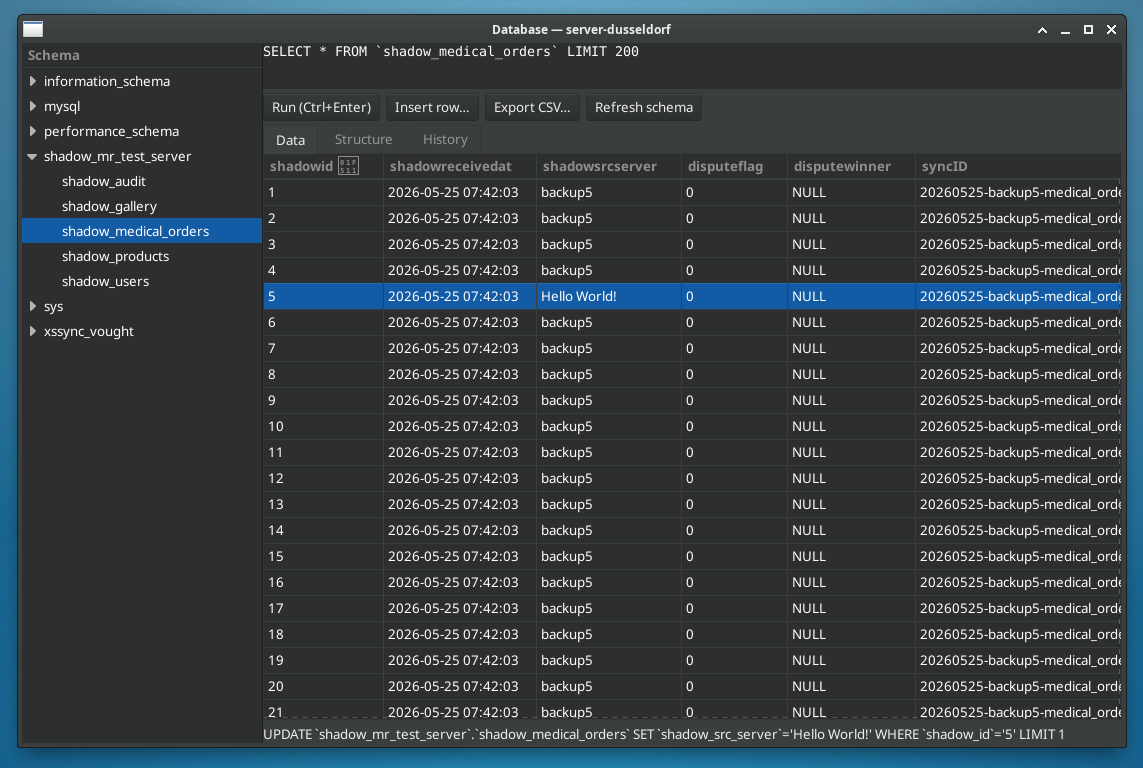
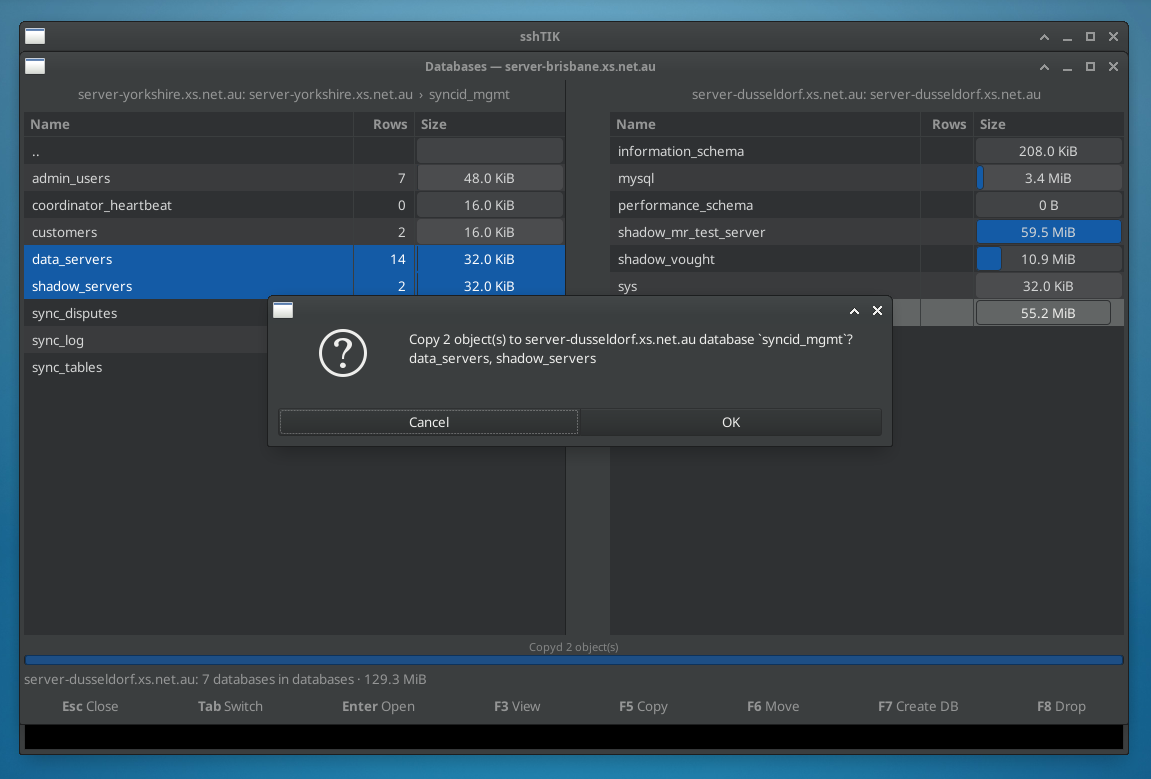
site: revamp with the v0.2.4 screenshots and updated descriptions
Feature the new dual-pane file/database commander screenshots full-width
(plus the new table-rows view), and rewrite the copy: F6 is no longer a
single "database browser with an editable grid" but a two-pane commander
that copies tables and whole databases between servers. Refresh the F5 blurb
(icons, folders-first sorting) and the "how it works" note about pointing a
pane at any host in ~/.ssh/config.

diff --git a/site/index.html b/site/index.html
@@ -4,7 +4,7 @@
 <meta charset="utf-8">
 <meta name="viewport" content="width=device-width, initial-scale=1">
 <title>sshTIK — SSH terminal with pop-up SFTP and MySQL helpers</title>
-<meta name="description" content="sshTIK is a Linux SSH terminal that stays out of your way until you press F5 for a file transfer window or F6 for a database browser — both riding on the session you already have open.">
+<meta name="description" content="sshTIK is a Linux SSH terminal that stays out of your way until you press F5 for a dual-pane file manager or F6 for a two-pane database commander that copies tables and whole databases between servers — both riding on the session you already have open.">
[1 lines of base64/hex data omitted]
 <style>
   :root {
@@ -34,10 +34,12 @@
   code { font-family: ui-monospace, Menlo, Consolas, monospace; background: var(--code); padding: 1px 5px; border-radius: 5px; font-size: .92em; }
   ul { padding-left: 22px; } li { margin: 4px 0; }
   a { color: var(--accent); }
-  .shots { display: grid; grid-template-columns: repeat(auto-fit, minmax(300px, 1fr)); gap: 18px; margin: 16px 0 28px; }
-  .shots figure { margin: 0; }
-  .shots img { width: 100%; height: auto; border-radius: 10px; border: 1px solid var(--line); box-shadow: 0 6px 18px rgba(0,0,0,.18); }
-  .shots figcaption { font-size: .9rem; color: var(--muted); margin-top: 6px; }
+  .feature { margin: 12px 0 28px; }
+  .feature figure { margin: 0 0 34px; }
+  .feature img { display: block; width: 100%; height: auto; border-radius: 12px; border: 1px solid var(--line); box-shadow: 0 12px 34px rgba(0,0,0,.22); }
+  .feature figcaption { margin-top: 12px; font-size: 1rem; line-height: 1.5; }
+  .feature figcaption b { color: var(--fg); }
+  .feature figcaption span { color: var(--muted); }
   .btns { display: flex; gap: 12px; flex-wrap: wrap; margin: 20px 0 0; }
   .btn { display: inline-block; padding: 10px 18px; border-radius: 10px; text-decoration: none; font-weight: 600; border: 1px solid var(--line); background: var(--card); color: var(--fg); }
   .btn.primary { background: var(--accent); border-color: var(--accent); color: #fff; }
@@ -61,12 +63,12 @@
     <div class="key">
       <kbd>F5</kbd>
       <h3>Files</h3>
-      <p>A dual-pane SFTP window opens with the remote side already sitting in the directory your shell is in, and your local machine on the other side. Drag, drop, recurse, rename, chmod. Double-click a remote file to edit it in your local editor — every save uploads.</p>
+      <p>A dual-pane file manager opens over SFTP — the remote side already in your shell's directory, your local machine opposite. Type-aware icons, folders grouped first, three-state column sorting, drag-and-drop, recursive copy and move, rename, chmod, delete. Double-click a remote file to edit it in your local editor; every save uploads.</p>
     </div>
     <div class="key">
       <kbd>F6</kbd>
       <h3>Database</h3>
-      <p>Sitting at a <code>mysql</code> prompt? Press F6 and a browser opens for that same server: schema tree, editable data grid, table structure, query history, CSV export. It picks up the user and database from the client you already launched.</p>
+      <p>A two-pane database commander in the same style: the server you're on beside any other host from your SSH config. Copy or move whole tables and entire databases between them (a <code>mysqldump</code> piped straight into <code>mysql</code>), create and drop databases, and open any table's rows — all over the SSH sessions you already have.</p>
     </div>
   </div>
 
@@ -76,12 +78,28 @@
   </p>
 
 
-  <h2>What it looks like</h2>
-  <div class="shots">
-    <figure><a href="sshtik-ssh.png"><img src="sshtik-ssh.png" alt="A plain SSH terminal until you press a function key" loading="lazy"></a><figcaption>A plain SSH terminal until you press a function key</figcaption></figure>
-    <figure><a href="sshtik-sftp.png"><img src="sshtik-sftp.png" alt="F5: file transfer, remote pane already in the shell's directory" loading="lazy"></a><figcaption>F5: file transfer, remote pane already in the shell's directory</figcaption></figure>
-    <figure><a href="sshtik-mysql.png"><img src="sshtik-mysql.png" alt="F6: database browser with an editable grid, on the same connection" loading="lazy"></a><figcaption>F6: database browser with an editable grid, on the same connection</figcaption></figure>
-    <figure><a href="sshtik-connect.png"><img src="sshtik-connect.png" alt="Saved hosts plus everything from ~/.ssh/config" loading="lazy"></a><figcaption>Saved hosts plus everything from ~/.ssh/config</figcaption></figure>
+  <h2>See it in action</h2>
+  <div class="feature">
+    <figure>
+      <a href="sshtik-ssh.png"><img src="sshtik-ssh.png" alt="A plain SSH terminal until you press a function key" loading="lazy"></a>
+      <figcaption><b>Just a terminal — until a function key.</b> <span>Tabs, saved hosts, agent, key and password auth. It connects and behaves like the <code>ssh</code> you already know.</span></figcaption>
+    </figure>
+    <figure>
+      <a href="sshtik-sftp.png"><img src="sshtik-sftp.png" alt="F5: dual-pane file manager, remote pane already in the shell's directory, mid-copy" loading="lazy"></a>
+      <figcaption><b>F5 — the file commander.</b> <span>Local beside remote, with the remote pane already sitting in your shell's directory. Type-aware icons, folders-first sorting and a Midnight-Commander key bar — caught here mid-copy of 16 files.</span></figcaption>
+    </figure>
+    <figure>
+      <a href="sshtik-mysql.png"><img src="sshtik-mysql.png" alt="F6: two-pane database commander copying tables between two servers" loading="lazy"></a>
+      <figcaption><b>F6 — the database commander.</b> <span>The same two-pane idea for MySQL: a different server on each side. Here it's copying two tables from a database on <code>server-yorkshire</code> straight into <code>server-dusseldorf</code>.</span></figcaption>
+    </figure>
+    <figure>
+      <a href="sshtik-mysql2.png"><img src="sshtik-mysql2.png" alt="F6: opening a table's rows in a data grid" loading="lazy"></a>
+      <figcaption><b>Open any table's rows.</b> <span>Enter (or F3) on a table pops its rows up in a grid, read straight from the live server.</span></figcaption>
+    </figure>
+    <figure>
+      <a href="sshtik-connect.png"><img src="sshtik-connect.png" alt="Saved hosts plus everything from ~/.ssh/config" loading="lazy"></a>
+      <figcaption><b>Everything from your <code>~/.ssh/config</code>.</b> <span>Your saved hosts alongside the Host entries you already keep, ready to pick.</span></figcaption>
+    </figure>
   </div>
   <div class="btns">
     <a class="btn primary" href="https://github.com/xsDevelopments/sshtik">Source on GitHub</a>
@@ -113,10 +131,12 @@ sshtik user@host -p 22</pre>
 
   <h2>How it works</h2>
   <p>
-    One SSH transport, several channels. The terminal is an interactive shell channel. The file panel is the SFTP subsystem
-    on the same transport. The helpers learn what you're doing through short exec channels: the remote shell's
-    current directory comes from <code>/proc/&lt;pid&gt;/cwd</code>, and the running <code>mysql</code> client's arguments
-    from its command line. Nothing is scraped off the screen.
+    One SSH transport, several channels. The terminal is an interactive shell channel; the file panel is the SFTP
+    subsystem on the same transport. The helpers learn what you're doing through short exec channels — the shell's
+    current directory from <code>/proc/&lt;pid&gt;/cwd</code>, the running <code>mysql</code> client's user and host from
+    its command line. Nothing is scraped off the screen. Either database pane can also point at another host in your
+    <code>~/.ssh/config</code> and run <code>mysql</code> there over its own hidden session, so a copy between two
+    servers never leaves the app.
   </p>
 
   <footer>
